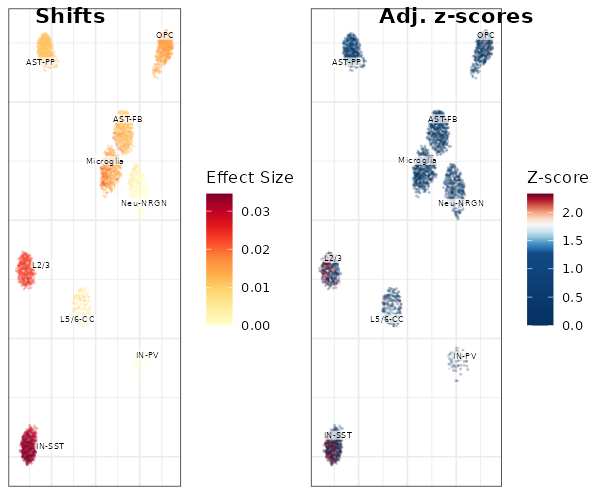
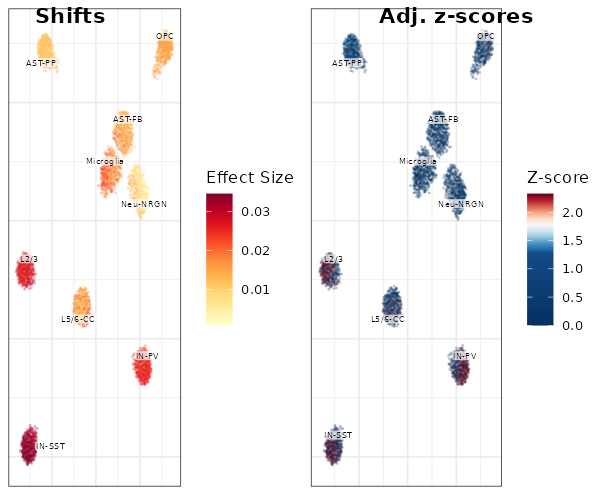
Fix thin-sample dropping in the cluster-free kernel, add residual covariate screen, remove analytic p option

diff --git a/src/cluster_free_shift_kernel.cpp b/src/cluster_free_shift_kernel.cpp
@@ -64,8 +64,19 @@ struct KernelInputs {
 // one cell: y holds the pair distances (NaN where a sample has too few cells)
 static CellResult test_cell(const arma::vec& y, const KernelInputs& in) {
   CellResult out; const arma::uword n = in.n, n_pairs = in.pairs.n_rows, B = in.P.n_cols;
+  // samples with too few cells have every pair distance missing; drop them (and only them) by removing, one at a time,
+  // the sample with the most missing pairs until no missing pair is left among the remaining samples
   arma::uvec bad(n, arma::fill::zeros);
-  for (arma::uword r = 0; r < n_pairs; ++r) if (!std::isfinite(y[r])) { bad[in.pairs(r, 0)] = 1; bad[in.pairs(r, 1)] = 1; }
+  for (;;) {
+    arma::uvec miss(n, arma::fill::zeros);
+    for (arma::uword r = 0; r < n_pairs; ++r) {
+      int a = in.pairs(r, 0), b = in.pairs(r, 1);
+      if (bad[a] || bad[b] || std::isfinite(y[r])) continue;
+      ++miss[a]; ++miss[b];
+    }
+    if (miss.max() == 0) break;
+    bad[miss.index_max()] = 1;
+  }
   arma::uvec s = arma::find(bad == 0); const arma::uword m = s.n_elem;
   if (m < 3) return out;
   if (in.use_levels) {

diff --git a/misc/issues.md b/misc/issues.md
@@ -55,12 +55,14 @@ The R / C++ split of fitting and randomization, and the plan to converge on two 
 
 - **Robust fitting and weak imputation in the distance engine**: implemented 2026-10-09 (step 4b); calibration
   simulations of the robust and weak-imputation paths are in the slow suite (see `misc/engine_convergence.md`).
-- **Residual-vs-covariate diagnostic for density / cluster-free DE** (parity with `screenCovariates(adjust.for=)`
-  on the shift side); see §9 of the same note. Not started.
+- **Residual-vs-covariate diagnostic for density / cluster-free DE**: done 2026-10-10 (`screenResidualCovariates()`,
+  `cao$screenResiduals(name)`): residual matrices become sample distances and go through the marginal covariate
+  screen; plotted with `plotCovariateScreen(name = "<result>.residual.screen")`.
 
 - **Cluster-free shifts and density refuse whole-factor (K-level) tests** with a message; only contrasts and
   numeric steps run there.
-- **Analytic p-values** (`p.values = "analytic"` in the screen) remain a labelled preview; see §3.
+- **Analytic p-values**: the `p.values = "analytic"` option was removed 2026-10-10 (liberal; permutation only). The
+  effective-dimension F stays in the table as `p.analytic` for reference.
 - **"Later" list from the plan** untouched: Welch-type shift test, robust weights, repeated measures, technical
   noise dispersion covariate, cor-geometry check, metric sensitivity report.
 
@@ -120,17 +122,21 @@ The R / C++ split of fitting and randomization, and the plan to converge on two 
 - Power at n = 16 for a 0.3/gene shift is modest for every method (0.13–0.20).
 - Global max-T and BH "any significant" are calibrated across cell types; raw "any" is not (expected).
 
-- Notebook observation to review: in the cluster-free shifts on the simulated object (500 top genes, 99 permutations)
-  `IN-PV` shows almost no per-cell shift although its cell-type test is strong and `L2/3` / `IN-SST` light up as
-  expected. Possibly the planted IN-PV genes fall outside the 500 most expressed genes; not investigated.
+- (resolved 2026-10-10) The weak `IN-PV` panel in the cluster-free shifts was a kernel defect: a sample with fewer
+  than `min.n.obs.per.samp` cells in a neighbourhood made every pair involving it missing, and both members of each
+  such pair were flagged, so one thin sample removed all samples. Only 13 % of IN-PV cells were tested (average
+  5 samples) against 100 % for IN-SST; after the fix every cell is tested and IN-PV has the strongest adjusted
+  signal. The former per-cell R loop (`pairVectorToMatrix()`) had the same rule; both now drop one sample at a
+  time, the one with the most missing pairs first. Regression test in `test-kernel-cf.R`.
 
 ## 4. Housekeeping and cleanup candidates
 
-- `private$getTopGenes()` takes 16 s and `getClusterFreeDEInput()` 4.5 s on the 4,500-cell simulated object, now
-  20x the cluster-free kernel itself; both are R-side and worth optimizing.
+- (examined 2026-10-10) `private$getTopGenes()` / `getClusterFreeDEInput()`: the time is the one-off extraction of
+  the joint count matrix from the Conos object (`extractJointCountMatrix`, 8-13 s, in conos), cached afterwards in
+  `cao$cache` (one entry for raw and one for normalized counts); the neighbourhood split costs 3 s. Nothing in
+  cacoa to optimize short of caching the normalized matrix next to the raw one, which already happens on first use.
 
-- `misc/` (plan, this file, `validation/` driver and report) is untracked; decide whether to commit it. It is in
-  `.Rbuildignore`.
+- `misc/` is tracked (plan, notes, validation driver and report, notebook renderer); it is in `.Rbuildignore`.
 - (done 2026-10-09) `projdiff.cpp` removed; `estimateCorrelationDistance` is used by cluster-free DE and stays.
 - Pre-existing TODOs in `R/cacoa.R` (overall p-adjustment in ontology plots, z-score adjustment in
   cluster-free DE, binary distance in `plotOntologySimilarities`), `R/ontology.R`, `R/cell_density.R`

diff --git a/vignettes/walkthrough_short.md b/vignettes/walkthrough_short.md
@@ -160,7 +160,7 @@ Test 1: Group: Group2 vs Group1  (reference 'Group1': as requested)
        adjusted for Batch; permutations: block within 2 strata (63,504 distinct)
        shift > 0: Group2 samples differ from Group1 samples in a common direction, beyond within-group variability
 Test 2: Group (4 levels)
-       adjusted for Batch; permutations: block within 2 strata (1.376573e+20 distinct)
+       adjusted for Batch; permutations: block within 2 strata (> 10 million distinct)
        location: the levels of Group differ in where their samples sit (a common direction per level), beyond within-level variability
 Samples: 40 used.   Issues: none
 ```
